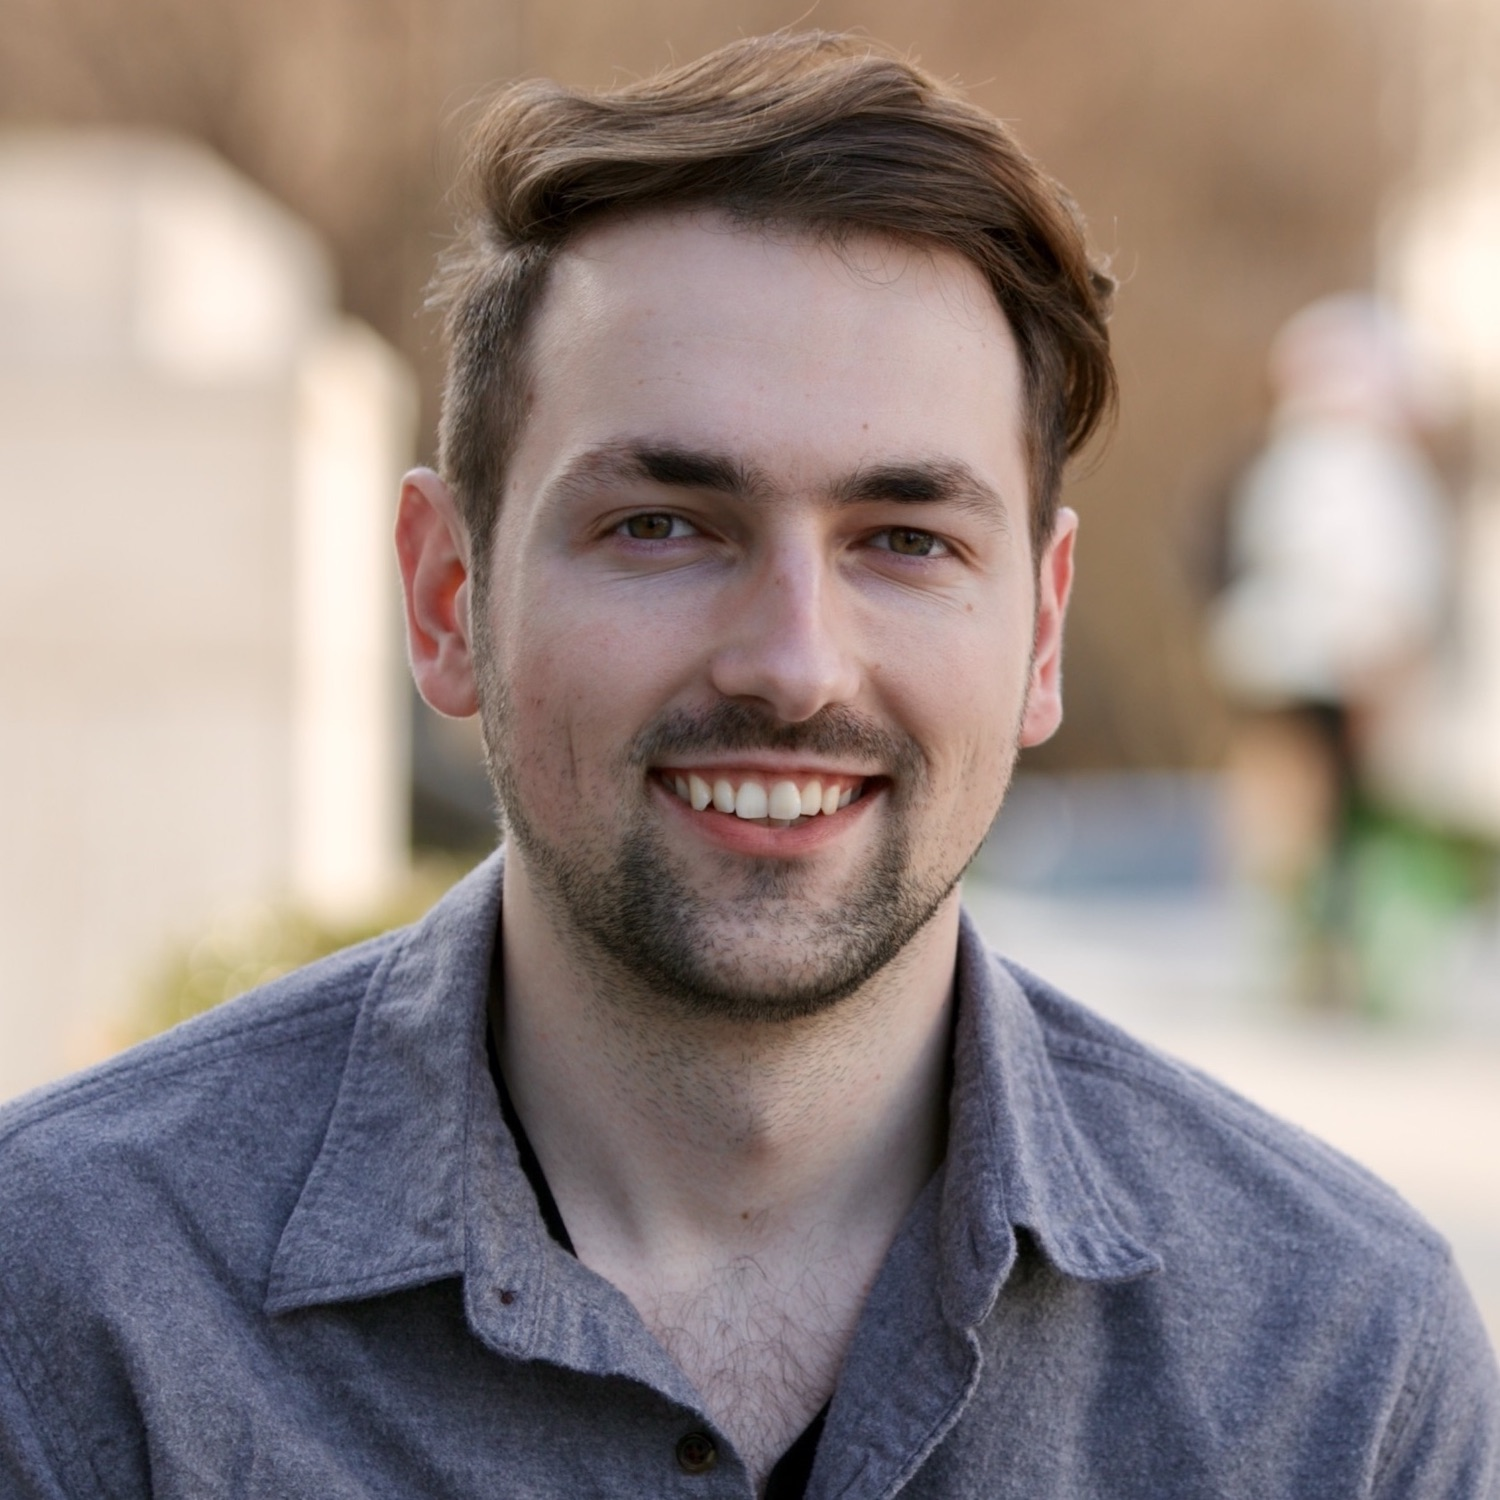
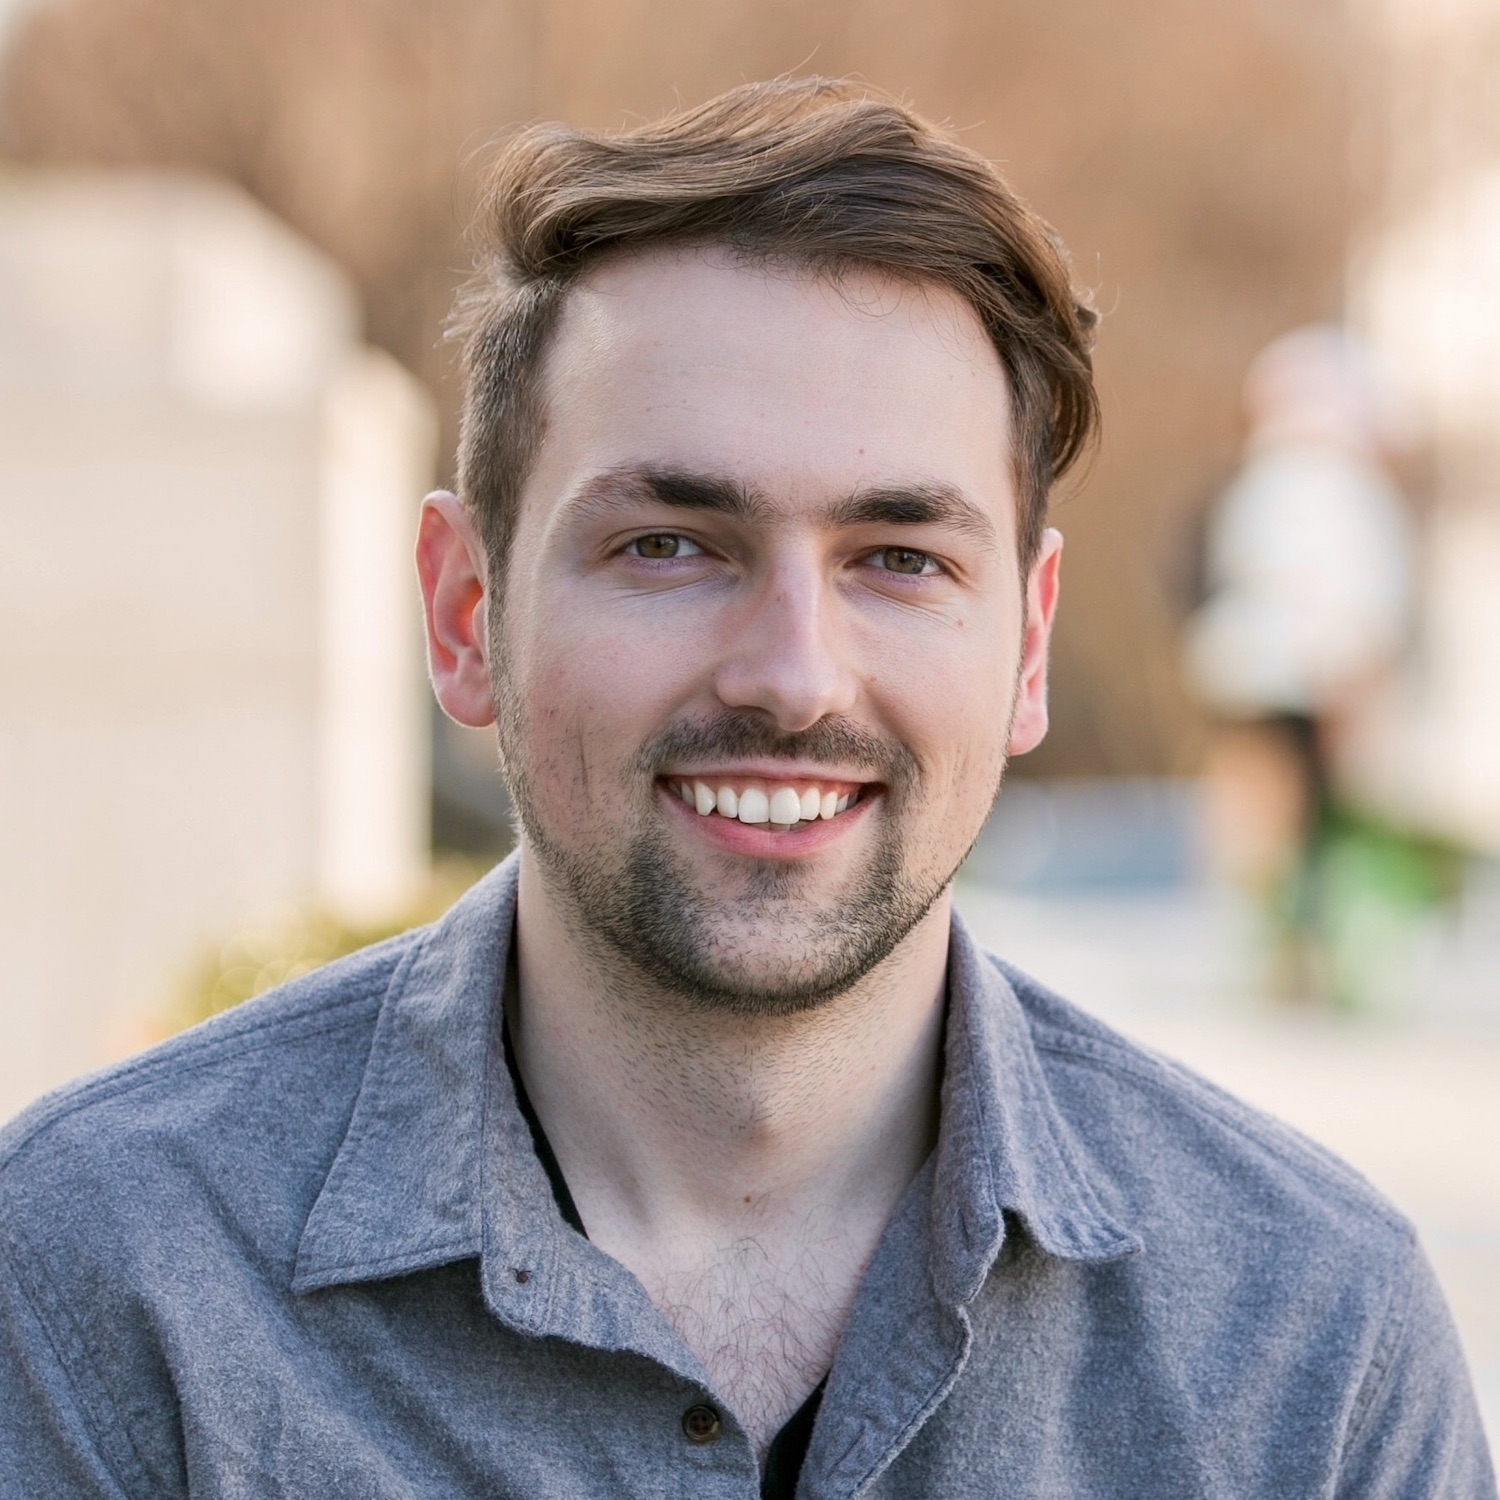
new portrait

diff --git a/index.md b/index.md
@@ -22,12 +22,12 @@ title: Home
 		I have worked at <img class="intro-logo" style="width: 19px; padding-bottom: 5px;" src="/images/apple.svg"> Apple, <img class="intro-logo" style="width: 18px; padding-bottom: 3px;" src="/images/microsoft.svg"> Microsoft Research, <img class="intro-logo" style="width: 24px" src="/images/nasa.svg"> NASA Jet Propulsion Lab, and <img class="intro-logo" style="width: 24px;" src="/images/pnnl.svg"> Pacific Northwest National Lab.
 		</p>
 		<p markdown="1">
-		My research is funded by a [NASA Space Technology Research Fellowship][nstrf].
+		My research is supported by a [NASA Space Technology Research Fellowship][nstrf].
 		</p>
 	</div>
 
 	<div class="intro-image">
-	  <img src="/images/portrait.jpg" style="border-radius: 2px;">
+	  <img src="/images/portrait.jpg" style="border-radius: 4px;">
 
 	  <div class="intro-image-links">
 		{% for link in site.data.social-links %}
@@ -71,8 +71,8 @@ title: Home
 	<div class="cover-side">
 	Featured <a href="/cv#interactive-articles" style="color: #303030"><strong>Interactive Articles</strong></a>
 </div>
-{% assign sortedExplorables = site.data.explorables | sort: 'feature-order' %}
-{% for feature in sortedExplorables %}
+{% assign sortedArticles = site.data.articles | sort: 'feature-order' %}
+{% for feature in sortedArticles %}
 {% if feature.featured == true %}
 
 {% include feature.html feature=feature %}
@@ -85,9 +85,9 @@ title: Home
 
 <div class="cover-wrapper">
 	<div class="cover-side">
-	Featured <a href="/cv#explorable-explanations" style="color: #303030"><strong>Parametric Press Articles</strong></a>
+	Featured <a href="/cv#interactive-articles" style="color: #303030"><strong>Parametric Press Articles</strong></a>
 </div>
-{% assign sortedParametric = site.data.explorables | sort: 'feature-parametric-order' %}
+{% assign sortedParametric = site.data.articles | sort: 'feature-parametric-order' %}
 {% for feature in sortedParametric %}
 {% if feature.parametric-featured == true %}
 {% include feature.html feature=feature %}
